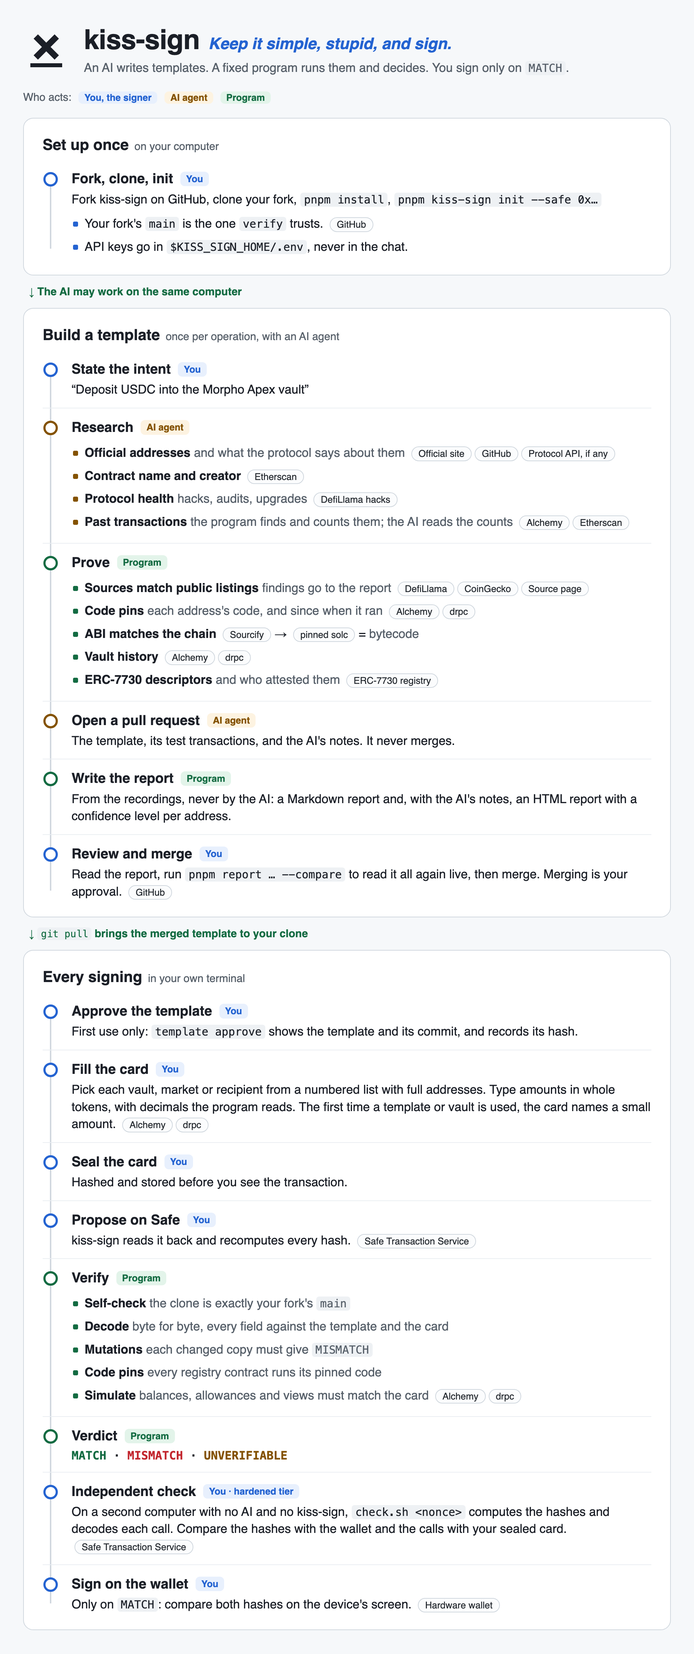
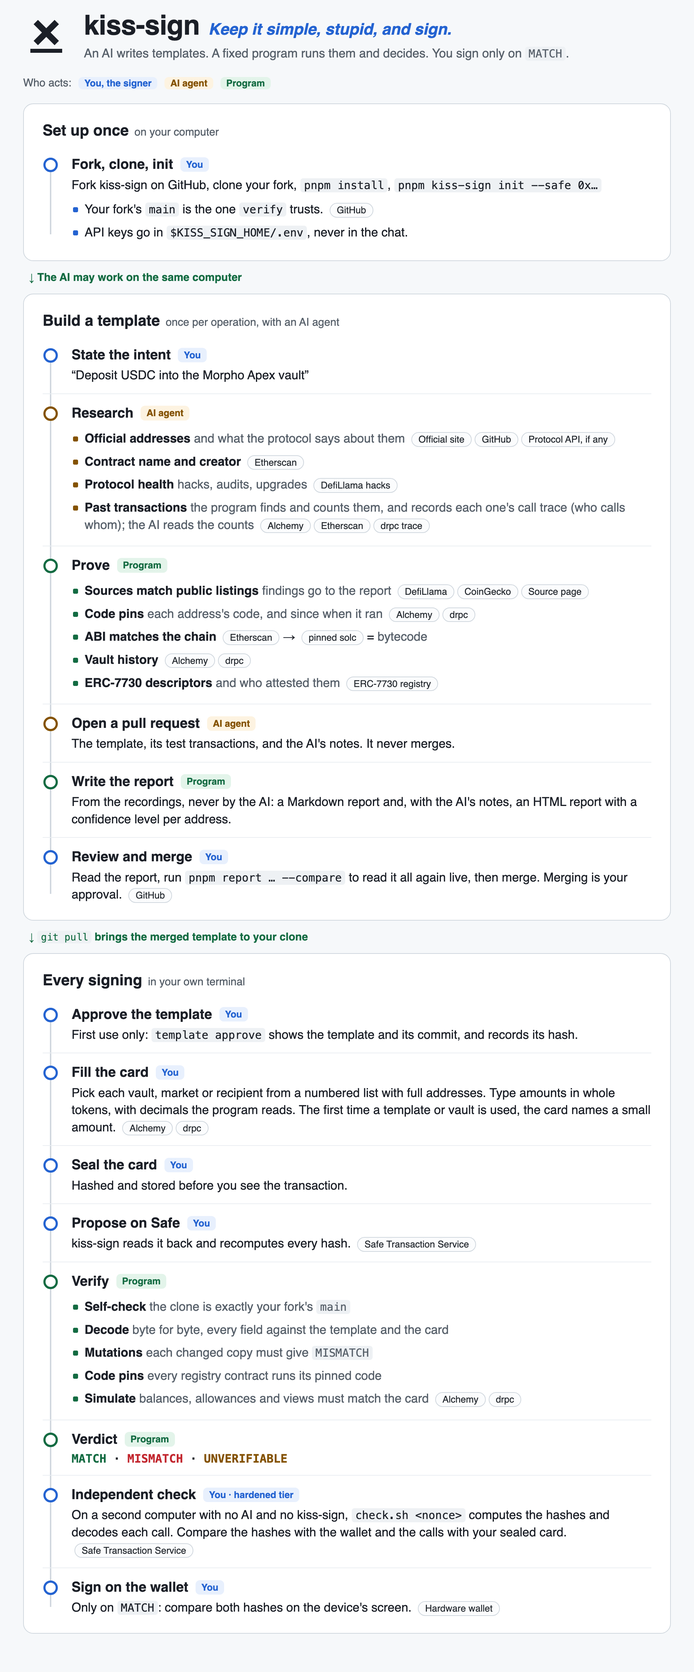
docs(design): check the AI's flow lines against past transactions' call traces
Past-txs records a trimmed callTracer trace from drpc for each transaction
exactly the template, cross-checked against the receipt both providers agree
on. The report compares each flow line with the traces both ways and draws a
seen line solid, labelled as confirmed by the program and by the AI's reading
of the source. The architecture diagrams name the trace and drpc.

Claude-Session: https://claude.ai/code/session_019EpkRikTD1KbjKp9L1wtSS

diff --git a/docs/diagrams/detail.html b/docs/diagrams/detail.html
@@ -108,10 +108,10 @@
       <h3><i>5</i>Gather evidence</h3>
       <ul>
         <li><code>instance-evidence</code>: factory admits the vault; monthly assets; holder count and top 10 share</li>
-        <li><code>past-txs</code>: finds past transactions and counts, per field, who held the rule; the AI reads the counts</li>
+        <li><code>past-txs</code>: finds past transactions and counts, per field, who held the rule; records each one's call trace (who calls whom) to test the AI's flow lines; the AI reads the counts</li>
         <li><code>erc7730</code>: descriptors from a pinned archive, ERC-8176 attestations, no descriptor text</li>
       </ul>
-      <div class="chips"><span class="chip">Alchemy Transfers</span><span class="chip">Multicall3</span><span class="chip">Etherscan</span><span class="chip">ERC-7730 registry</span><span class="chip">EAS</span></div></div>
+      <div class="chips"><span class="chip">Alchemy Transfers</span><span class="chip">Multicall3</span><span class="chip">Etherscan</span><span class="chip">drpc trace</span><span class="chip">ERC-7730 registry</span><span class="chip">EAS</span></div></div>
     <div class="arrow">→</div>
     <div class="box ai"><div class="head"><span>AI agent</span><span>steps 6, 7</span></div>
       <h3><i>6</i>Open a pull request</h3>
@@ -239,7 +239,7 @@
 </section>
 
 <div class="trust">
-  <div><b>Two providers</b>Every chain read goes to Alchemy and drpc. If they disagree, the verdict is <code>UNVERIFIABLE</code>.</div>
+  <div><b>Two providers</b>Every chain read goes to Alchemy and drpc. If they disagree, the verdict is <code>UNVERIFIABLE</code>. Only a past transaction's call trace, read in research, comes from drpc alone.</div>
   <div><b>Pinned downloads</b>solc, the Public Suffix List and the ERC-7730 archive load on first use, refused unless the sha256 is pinned. Signing reads none.</div>
   <div><b>Doubt fails closed</b>An AI fooled during signing can at worst cause <code>MISMATCH</code> or <code>UNVERIFIABLE</code>, while the program is your <code>main</code>. A program rewritten on your computer is the basic tier's limit.</div>
 </div>

diff --git a/docs/diagrams/overview.html b/docs/diagrams/overview.html
@@ -85,7 +85,7 @@
         <li><b>Official addresses</b> <span class="note">and what the protocol says about them</span> <span class="chip">Official site</span><span class="chip">GitHub</span><span class="chip">Protocol API, if any</span></li>
         <li><b>Contract name and creator</b> <span class="chip">Etherscan</span></li>
         <li><b>Protocol health</b> <span class="note">hacks, audits, upgrades</span> <span class="chip">DefiLlama hacks</span></li>
-        <li><b>Past transactions</b> <span class="note">the program finds and counts them; the AI reads the counts</span> <span class="chip">Alchemy</span><span class="chip">Etherscan</span></li>
+        <li><b>Past transactions</b> <span class="note">the program finds and counts them, and records each one's call trace (who calls whom); the AI reads the counts</span> <span class="chip">Alchemy</span><span class="chip">Etherscan</span><span class="chip">drpc trace</span></li>
       </ul></li>
     <li class="step program"><div class="title">Prove <span class="who">Program</span></div>
       <ul class="sub">

diff --git a/docs/design/flow.md b/docs/design/flow.md
@@ -273,6 +273,20 @@ Each picture is drawn from an HTML source in `docs/diagrams/`, and `sh docs/diag
      The report prints the same in its Past transactions section.
      The AI reads the spread to learn what values normal use sets, such as how far ahead real orders expire; it is evidence for a reason or a bound the AI proposes, never a rule by itself.
      A transaction whose `withinSeconds` field is more than its seconds after its block's time is a misfit, `<field>: more than <seconds> seconds after its block's time`, and one whose block time was not read is unreadable, so the counts show how many real transactions the bound would refuse.
+   - **Call traces:** for each transaction exactly the template, from a proven Safe or from an EOA making one of its calls, `--record` also keeps the path the transaction took inside its calls.
+     It asks drpc alone, `debug_traceTransaction` with `callTracer`, since Alchemy's free plan refuses it, one transaction at a time.
+     Every such transaction is traced, so a line is tested on every transaction the counts rest on; the study's limit of 240 transactions bounds them.
+     Of each call the trace keeps only what the comparison reads: its depth, its type (`CALL`, `STATICCALL`, `DELEGATECALL`, `CREATE` or `CREATE2`), `from`, `to`, its selector, a value that is not zero, whether it reverted, and for a `transfer`, `transferFrom` or `approve` its address arguments; never the rest of its input, its output or its gas.
+     Cut down so, a Morpho deposit through Bundler3 of 43 to 50 calls keeps 6.7 to 7.8 kB of the 27 to 34 kB drpc answers, and a Fluid deposit of 18 calls 2.8 kB of 13 kB, so 240 traced transactions add about 1.5 MB to a recording.
+     The recording keeps them under `traces`, each with the transaction's hash; the raw answer is never kept.
+     A trace counts only when its top call is the transaction as both providers give it: the same sender, target, selector and value.
+     The steps of a trace that move tokens are checked against the receipt both providers agree on, both ways: each `transfer`, `transferFrom` or `approve` that did not revert must have its `Transfer` or `Approval` log, by token, from and to, and each `Transfer` of a registry token between two addresses other than zero must have its call.
+     A transaction whose trace fails either check is UNVERIFIABLE for its trace, as any read the providers disagree on is, and is counted apart with why; it confirms no line and gives no finding.
+     A trace read with no answer stops `--record` as any read does; a recording made before traces holds none, and `--same-windows-as` searches its windows again to add them.
+     A call that reverted is left out with every call under it, since the chain undid it.
+     A call made inside a `DELEGATECALL` names, as `callTracer` gives it, the contract whose code delegated as its `from`, so a proxy's calls read as the proxy's and its call to its implementation is no step of the path.
+     A trace shows the path past transactions took; a contract may take another path on other state, so the effects check at signing, not a trace, is what protects the signer.
+     The report compares each AI `flow` line with these traces (see Flow lines against the traces under Report).
 5. **Check the protocol's health.**
    The AI looks for anything that makes the protocol unsafe to use right now: past hacks and incidents (for example DefiLlama's hack list and the protocol's own post-mortems), audits, recent upgrades, admin or timelock changes, paused or deprecated contracts.
    Every claim cites its source.
@@ -290,7 +304,7 @@ Each picture is drawn from an HTML source in `docs/diagrams/`, and `sh docs/diag
      A section with nothing to list says so in one line in place of an empty table, such as the registry entries of a template that calls only the Safe or a recipient, and no command is printed with an empty argument list.
    - **Finding grades:** every result of the ledger has one weight, from one table, `WEIGHT_OF` in `src/research/grades.ts`, by its finding kind, never by a condition elsewhere: pass, key, reference or neutral.
      A grade changes only how a result is shown and in what order; which results go to 待確認, which need a review in `notes.json`, a result's colour, an address's confidence, `card seal` and `verify` do not read it.
-     **Key** is a finding that bears on whether an address or its code is the protocol's real one and does what the template assumes, and every result the HTML page colours red or amber is key unless named below: an address confirmed in fewer than two places, a site, coin, API answer, newest version or SDK package that differs, a pinned page or SDK file whose label binds only other addresses (the report prints each in full, checksummed, as for a newest version), a site that cannot be compared or has no second source, a GitHub commit not confirmed, a factory or a check it declares that says no or was not read, an ABI proof refused, missing, or of code other than the pin, a compiler not pinned, a function the template uses missing from the ABI, a code pin missing, not run on chain, recorded before spans or with no chain result, a documentation page not read or not naming the function, a recorded test transaction judged otherwise, and a read with no answer (`UNVERIFIABLE`).
+     **Key** is a finding that bears on whether an address or its code is the protocol's real one and does what the template assumes, and every result the HTML page colours red or amber is key unless named below: an address confirmed in fewer than two places, a site, coin, API answer, newest version or SDK package that differs, a pinned page or SDK file whose label binds only other addresses (the report prints each in full, checksummed, as for a newest version), a site that cannot be compared or has no second source, a GitHub commit not confirmed, a factory or a check it declares that says no or was not read, an ABI proof refused, missing, or of code other than the pin, a compiler not pinned, a function the template uses missing from the ABI, a code pin missing, not run on chain, recorded before spans or with no chain result, a documentation page not read or not naming the function, a recorded test transaction judged otherwise, a `flow` line the traces did not see in every transaction, a money call in a trace no line covers, and a read with no answer (`UNVERIFIABLE`).
      When unsure, a kind is key.
      **Reference** is context the signer may weigh that undermines neither: a coin CoinGecko lists at an address whose entry names no `coingecko` id (it confirms nothing, and the address's own result says how many places did); a masked metadata hash (see [Known limits](known-limits.md#known-limits): every byte but the hash is proven, and nothing the signer could check changes it); no CoinGecko coin at the address, an SDK publisher with no build provenance, a deployer not proven, a source that got no answer, a page or SDK file on which the address was not read and its label binds no other address (an SDK file that holds it, but not next to its label or only in a letter case that is neither lowercase nor its checksum, included), a page whose URL holds the address, an Immunefi program the entry names that nothing ties to the protocol because its sites are not known, and an Immunefi program the entry names that Immunefi does not list, each a place that did not confirm the address, which the entry's `<name>/address` result, key, already counts.
      **Neutral** is no finding, a place with nothing to compare: one that does not list the address (NOT LISTED: a bounty program tied to the protocol whose scope does not hold it, an SDK file that does not hold it and binds its label to no other address, a newest version that binds its label to no address), a site no listing names that another result vouches for, a deployer no confirmed entry shares, and an entry whose ABI the program does not use or that has `routes` (not proved, not provable); the generated report prints these as NOT LISTED or n/a with the reason, never as FINDING, as the HTML page shows them grey.
@@ -336,6 +350,18 @@ Each picture is drawn from an HTML source in `docs/diagrams/`, and `sh docs/diag
      When the recording keeps its head, the command it prints searches the same windows again with `--same-windows-as` naming that recording.
      A search that left transactions out is not caught.
      The section shows each measured effect's distribution of differences beside its declared tolerance, with each `FINDING`, as `pnpm past-txs` prints them (see Amounts against balances above).
+     It also prints, per recording, how many transactions were traced and how many were UNVERIFIABLE for their trace, with why.
+   - **Flow lines against the traces:** the program compares the AI's `flow` lines (see Written by the AI, as data) with the traces of the recordings the report studies, both ways, over the transactions whose trace counts.
+     It finds the template's calls in each trace in order: for a Safe, the calls the Safe makes with each template call's selector, or with no data for a call that has none; for an EOA, its transaction's own call.
+     A line is seen in a transaction when, under the call its `after` names, a call goes from its `from` to its `to` with the selector of its `function`.
+     A line is tested only in the transactions that make its call, so an EOA's transaction tests only the lines after its own call, and the report shows each line as seen in N of M transactions.
+     A money call is a `transfer`, `transferFrom` or `approve` to any contract, or a call that sends ETH, under one of the template's calls.
+     It is covered when it is a call the template binds, a top-level call or a nested call such as a Bundler3 bundle item, or a call a seen line names, or is made directly by one of those; a `DELEGATECALL` between them is no step.
+     A line seen in fewer than all its M transactions is a result for the signer, `flow.<n>` by its place in the merged `flow` list from 1, and so is each money call no line covers, grouped by the call it is under, its `from`, its `to` and its kind, `trace.<call>.<from>.<to>.<kind>`, where `from` and `to` are a registry name, `safe` for the sender, or `other` for an address outside the registry, and the kind is `transfer`, `transferFrom`, `approve` or `eth`; the AI reviews each in `notes.json` as any other.
+     A line seen in none of its transactions is red, and the rest amber.
+     With no trace that counts, as for a template no recording has traced yet, no line is compared and none gives a result: every line stays the AI's.
+     None of this runs at signing: `verify`, `card new`, `card seal` and `replay` read no trace.
+     `--compare` traces each recorded transaction again through drpc and requires the same calls, and checks them against the receipt read again through both providers.
    - **Live check:** the recordings are made on the AI's computer, so the program can show only that it computed the report from them, not that they are true.
      Before merging, the signer runs `--compare` with main's code on the pull request's files, so a pull request that also weakens `--compare` cannot pass its own check: in a clone on `main`, `git pull` and `git fetch origin <branch>`, then `pnpm report <protocol>/<operation> --compare --data origin/<branch>`, with `--instance-of <instance>` for each per-instance report the branch changes.
      `--data` unpacks `templates/`, `registry/` and `testdata/` from that ref into a temporary directory and runs the code checked out.
@@ -386,12 +412,15 @@ Each picture is drawn from an HTML source in `docs/diagrams/`, and `sh docs/diag
      Top to bottom: **Header.**
      The AI's `title`, the operation id, and the AI's `summary`.
      Under it the check strip: one short named result per line of evidence, each with its icon and count, and its explanation behind an info icon that shows on hover or keyboard focus.
-     The strip holds 地址來源 (each address's confirmations, the source pages' sites and commits, and the documentation pages, which 流程 also shows under each call; it fails on any real disagreement and needs a look when an address is confirmed in fewer than two places), 原始碼驗證 (the ABI proofs; an entry whose ABI the program does not use and one with `routes` have none, their result grey, and the line's explanation names each and points to 合約沒被換掉), 合約沒被換掉 (the code pin spans, and the code at the report's latest block of each entry no ABI proof covers; its explanation names those entries, and each entry with `routes`, whose implementations its seeds reach and their selector lists are checked too, while an implementation no seed reaches is not), 參數保護 (the mutation check and the `testdata/perturb/` recordings) and 雙節點比對 (the rule that every chain read goes through two providers).
+     The strip holds 地址來源 (each address's confirmations, the source pages' sites and commits, and the documentation pages, which 流程 also shows under each call; it fails on any real disagreement and needs a look when an address is confirmed in fewer than two places), 原始碼驗證 (the ABI proofs; an entry whose ABI the program does not use and one with `routes` have none, their result grey, and the line's explanation names each and points to 合約沒被換掉), 合約沒被換掉 (the code pin spans, and the code at the report's latest block of each entry no ABI proof covers; its explanation names those entries, and each entry with `routes`, whose implementations its seeds reach and their selector lists are checked too, while an implementation no seed reaches is not), 參數保護 (the mutation check and the `testdata/perturb/` recordings), 呼叫追蹤 (the `flow` lines and money calls against the past transactions' call traces; the line is left out when no trace counts) and 雙節點比對 (the rule that every chain read goes through two providers, which the call traces keep for the tokens they move: see [Chain access](engine-and-chain.md#chain-access)).
      A line with no result at all, such as 地址來源 for a template that touches no registry entry, is left out; 參數保護 with no recorded test transaction shows 沒有測試 in place of a count, in grey, and says why from the template: with no free field there is nothing to perturb, and `verify` still changes each bound field at every signing.
      Under the strip the AI's `verdict` as one line marked 建議.
      The contents rail links each section and shows the count of calls, of addresses, and for 待確認 three counts: the program's key results for the signer (重要) and its reference results (參考), each with its worst state's icon, and the AI's judgments with the dashed-ring icon, each left out when zero and a passed 0 when all are; the 待確認 heading shows the same three.
      **流程.**
-     A sequence diagram the program draws as inline SVG: a lifeline for the Safe, for each contract the calls or the effects' views target, and for each contract an AI `flow` line names that has none yet, such as an adapter a nested call targets, a solid numbered arrow for each call with its function name (a call with no data is labelled by its value: 轉 ETH when the value can be nonzero, 0 ETH、沒有資料 otherwise, and a call to the Safe itself loops back to its own lifeline, while a card recipient's lifeline is named by its field, such as 收款人), a dashed arrow for each AI `flow` line between the two contracts it names, and a green arrow back to the Safe for what the effects say the Safe gets, such as a token or a view that increases.
+     A sequence diagram the program draws as inline SVG: a lifeline for the Safe, for each contract the calls or the effects' views target, and for each contract a nested call or an AI `flow` line names that has none yet, such as an adapter a nested call targets, a solid numbered arrow for each call with its function name (a call with no data is labelled by its value: 轉 ETH when the value can be nonzero, 0 ETH、沒有資料 otherwise, and a call to the Safe itself loops back to its own lifeline, while a card recipient's lifeline is named by its field, such as 收款人), a solid arrow for each call the template binds inside a call, such as each Bundler3 bundle item, from the call's target to the nested call's, labelled with its function, an arrow for each AI `flow` line between the two contracts it names, and a green arrow back to the Safe for what the effects say the Safe gets, such as a token or a view that increases.
+     A `flow` line the traces saw is solid and labelled as confirmed two ways: by the program, in the call traces of N of M past transactions, and by the AI, reading the contract's source, with its sources linked; its text keeps its AI tag.
+     A line not compared, or seen in none of its transactions, stays dashed, with its AI tag; a line seen in some is solid with its count, and its result goes to 待確認.
+     When any line is solid, one sentence under the diagram says that a trace shows the path past transactions took, that a contract may take another path on other state, and that the effects check at signing is what protects the signer.
      Under the diagram, one line names who decides each argument, listing only the words some argument uses, and a free argument once per claim the template makes for it (換成別的值，結果一樣或交易失敗 for a scalar, 換成別的值，交易就失敗 for a proof, 合約不讀它 for an unread field), and the line on `cast decode-calldata` shows only when a call has data; then per call its function and selector, its documentation page, and one row per argument.
      The documentation page is one line under the call's heading, 文件：, naming the page `docs.json` gives the function, linked: a standard's page as `<standard> 標準頁`, followed by 標準定義這個函式，不代表合約照標準做, any other page by its host and leading path as 地址 names pages, with its file name added when two pages of the report would share that name.
      Its result is the worst of that page's results (the function on the page, its site, and a GitHub page's commit), shown as an address row's source line shows one: a pass by its icon alone, anything else by its icon and phrase (讀不到, 頁上沒有這個函式 for a page read that does not name the function, 是另一個網站, 沒資料可比).
@@ -490,11 +519,11 @@ Each picture is drawn from an HTML source in `docs/diagrams/`, and `sh docs/diag
      A page in one language says, in that language, that the report exists only in it; a signer who reads the other language is pointed to it, and nothing refuses a report for being in the other language, since an instance's report is found by its `report.generated.md`.
      A per-instance report reads two: the template's, with the text every instance's report shares, which includes the role, sources and reviews of an entry every instance with a report of the template names in `dependsOn` or as an attribute, such as Fluid's Liquidity and LendingFactory behind both fTokens, written there once (a name some report does not cover is refused there as one the report does not cover), and the instance's own in its folder, which may hold only `verdict`, `flow`, `judgments`, `reviews`, `entries` and `pastTxsConclusion`, each about that instance, `flow` since a line names the instance or its asset, and the template's `flow` may name neither; its `reviews` and `entries` may name only the instance, the registry entries its attributes name, such as its asset and its factory, and those it depends on, and the program refuses any other name, a test transaction's review included, since a shared contract's text belongs in the template's file.
      The program merges them before it parses them as one, and refuses a key both define: `verdict`, or one entry or one review by its name; the `flow` lines and the judgments of both join, and count toward their limit of four.
-     The keys: `title`, `summary`, `verdict` (`{ "status": "safe" | "caution", "text" }`, the AI's overall view of the operation's risk in one line; it never changes a program result or a confidence level), `flow` (at most four things that happen inside a call, which the program cannot see, each `{ "after": <call number>, "from": <registry name>, "to": <registry name>, "text" }`, drawn as a dashed arrow between the two contracts; `from` and `to` name a contract the calls or the effects' views target, an entry one of those names in `dependsOn`, such as the Liquidity an fToken keeps its deposits in, or a token the effects move), `protocols` (by DefiLlama slug, for each protocol the protocol facts cover: `intro`, one line on what the protocol is; `audits`, a note with the audit reports as sources; `incidents`, one note per DefiLlama hack in date order, its cause with the post-mortem as a source), `judgments` (at most four things the AI asks the signer to judge, each with a `recommendation`), `reviews` (by result id, `<registry name>/<check key>` or `fixture.<name>`, where a documentation page's key names its function by selector, such as `doc.0x095ea7b3.page`: `{ "status": "confirmed" | "concern", "text", "recommendation" }`, the AI's own check of a result the signer must look at, shown under the program's line; `confirmed` only when the AI checked the exact thing the result names and it agrees, such as the address on that very page, and `concern` for evidence about anything else, however strong), `entries` (by registry name: `role`, and `sources`, each source the AI checked by hand as `{ "text", "url", "result": "pass" | "attention" | "fail" }`, such as the Etherscan creator or a page opened in a browser; an entry with `routes` must have one, with a `role` and at least one source, see Pin the routes) and `pastTxsConclusion` (optional, one line on what the past transactions with other shapes teach, read from the 過去交易 blocks, never repeating the count of those with exactly the template's shape, which the program prints; in a per-instance report the instance's) and `fields` (by the HTML report's field key, such as `1.approve.spender` or `2.blueBundlesV1Supply.marketParams.oracle`, what the argument does, from the contract's source and documentation; every argument and every tuple part needs one).
+     The keys: `title`, `summary`, `verdict` (`{ "status": "safe" | "caution", "text" }`, the AI's overall view of the operation's risk in one line; it never changes a program result or a confidence level), `flow` (at most four things that happen inside a call, each `{ "after": <call number>, "from": <registry name>, "to": <registry name>, "function": <canonical signature>, "text", "sources" }`, drawn as an arrow between the two contracts and compared with the call traces (see Flow lines against the traces); `function` is the function `from` calls on `to`, such as `supply((address,address,address,address,uint256),uint256,uint256,address,bytes)`, and `sources` are https URLs, the contract source the AI read and a past transaction whose internal calls it checked by hand, such as its Etherscan page; `from` and `to` name a contract the calls or the effects' views target, an entry one of those names in `dependsOn`, such as the Liquidity an fToken keeps its deposits in, or a token the effects move), `protocols` (by DefiLlama slug, for each protocol the protocol facts cover: `intro`, one line on what the protocol is; `audits`, a note with the audit reports as sources; `incidents`, one note per DefiLlama hack in date order, its cause with the post-mortem as a source), `judgments` (at most four things the AI asks the signer to judge, each with a `recommendation`), `reviews` (by result id, `<registry name>/<check key>` or `fixture.<name>`, where a documentation page's key names its function by selector, such as `doc.0x095ea7b3.page`: `{ "status": "confirmed" | "concern", "text", "recommendation" }`, the AI's own check of a result the signer must look at, shown under the program's line; `confirmed` only when the AI checked the exact thing the result names and it agrees, such as the address on that very page, and `concern` for evidence about anything else, however strong), `entries` (by registry name: `role`, and `sources`, each source the AI checked by hand as `{ "text", "url", "result": "pass" | "attention" | "fail" }`, such as the Etherscan creator or a page opened in a browser; an entry with `routes` must have one, with a `role` and at least one source, see Pin the routes) and `pastTxsConclusion` (optional, one line on what the past transactions with other shapes teach, read from the 過去交易 blocks, never repeating the count of those with exactly the template's shape, which the program prints; in a per-instance report the instance's) and `fields` (by the HTML report's field key, such as `1.approve.spender` or `2.blueBundlesV1Supply.marketParams.oracle`, what the argument does, from the contract's source and documentation; every argument and every tuple part needs one).
      A note is `{ "text", "sources"? }`, with `sources` https URLs.
      A review or an AI source explains a program result and cannot move or hide it.
      Every result the signer must look at needs a review, and a review of any other result is refused.
-     The program refuses an unknown key, an entry or protocol the report does not cover, an entry with `routes` that `entries` does not describe with a `role` and a source, an incident list whose length differs from the hacks DefiLlama lists, a `flow` line whose `after` is not one of the template's calls or whose `from` or `to` is not a contract the calls or the effects' views target, an entry one of those names in `dependsOn`, or a token the effects move, such as the asset a withdrawal pays out, a field key the template lacks, a control or bidirectional character, a backtick that does not open or close a code span around one identifier (`erc4626Deposit` or `erc4626Deposit()`), text over 2,000 characters, a judgment, role, recommendation, intro, `pastTxsConclusion` or AI source over 200, a review over 300, and the report's `title`, a `flow` line or a verdict over 100; a length does not count the backticks.
+     The program refuses an unknown key, an entry or protocol the report does not cover, an entry with `routes` that `entries` does not describe with a `role` and a source, an incident list whose length differs from the hacks DefiLlama lists, a `flow` line whose `after` is not one of the template's calls, whose `from` or `to` is not a contract the calls or the effects' views target, an entry one of those names in `dependsOn`, or a token the effects move, such as the asset a withdrawal pays out, whose `function` is not a canonical signature, whose `sources` are empty, or that names a call the template binds itself, a field key the template lacks, a control or bidirectional character, a backtick that does not open or close a code span around one identifier (`erc4626Deposit` or `erc4626Deposit()`), text over 2,000 characters, a judgment, role, recommendation, intro, `pastTxsConclusion` or AI source over 200, a review over 300, and the report's `title`, a `flow` line or a verdict over 100; a length does not count the backticks.
      AI text may name a function or an argument as a code span, such as "依序呼叫 `erc20TransferFrom` 和 `erc4626Deposit`"; the HTML report prints it in monospace, as `<code>` in prose and as a boxed monospace span in the flow diagram, escaped like all AI text.
      It covers what the program cannot: where each address was found and the protocol API's query and answer, each contract's Etherscan name and creator, its reading of each instance's evidence, what each field means, the past-transaction counts by sender type with every misfit and what it taught, where the generated ERC-7730 section's field formats, visibility, and parameters left out differ from the AI's meanings, the protocol's health from step 5, and, only when `pnpm simulate` marks a call of a test transaction as moving no asset of the Safe (see [Engine checks](engine-and-chain.md#engine-checks-that-every-template-gets)), what that call changes, from the protocol's official documentation with a link to the page; with no call marked, the notes say nothing about the mark.
      A count such as "42 past deposits from 31 proven Safes, 60 from 52 EOAs; `receiver` (who gets the vault shares) was the depositing Safe in all 42" is the evidence behind the rule "`receiver` equals the Safe".

diff --git a/docs/design/engine-and-chain.md b/docs/design/engine-and-chain.md
@@ -124,6 +124,7 @@ These are protocol-free and change rarely.
 Every on-chain read uses two providers from different companies.
 Both must agree, or the result is `UNVERIFIABLE`.
 This covers state reads, code, simulation, receipts, and the search for past transactions.
+The one exception is a past transaction's call trace during research, which only drpc serves free: its token transfers and approvals are checked against the receipt both providers agree on, and it never reaches a verdict.
 
 | Role | Providers |
 |---|---|
@@ -133,6 +134,7 @@ This covers state reads, code, simulation, receipts, and the search for past tra
 | Simulation, latest and past blocks | Alchemy and drpc, `eth_simulateV1` |
 | A signed message a template reads by its digest, during `verify` | The template's `lookup`, such as CoW's order API; one source is enough, since the program hashes the answer and requires the digest the transaction holds |
 | Finding past transactions | Alchemy Transfers API and a second source (Etherscan with a free key) |
+| A past transaction's call trace, during research | drpc alone (`debug_traceTransaction` with `callTracer`), its token calls checked against the receipt Alchemy and drpc agree on |
 
 When the system resolver fails, kiss-sign resolves provider hosts over DNS over HTTPS.
 TLS certificate checks stay on, so a wrong address can only fail the connection.
@@ -177,4 +179,5 @@ None of them is read at signing.
 | EAS contract on mainnet, through Alchemy and drpc | Each attestation's signer, by the `ecrecover` precompile, and whether the signer revoked it (step 2) | Program, `pnpm erc7730` |
 | Etherscan API (`getsourcecode`) and a pinned `solc` | The verified source compiles to the code on chain, and its ABI holds every function the template uses (step 3) | Program, `pnpm prove-abi` |
 | Alchemy Transfers API and Etherscan API | Past transactions of the operation (step 4) | Program, `pnpm past-txs`; the AI reads the counts |
+| drpc `debug_traceTransaction`, and receipts through Alchemy and drpc | The calls inside each past transaction exactly the template, against the AI's `flow` lines (steps 4 and 6) | Program, `pnpm past-txs` and `pnpm report`; the AI reviews each finding |
 | DefiLlama hacks list and post-mortems | Past hacks and incidents (step 5) | AI |

diff --git a/docs/design/known-limits.md b/docs/design/known-limits.md
@@ -2,6 +2,10 @@ Part of [the kiss-sign design](../design.md).
 
 ## Known limits
 
+- A past transaction's call trace comes from drpc alone, since Alchemy's free plan does not serve one.
+  Its token transfers and approvals are checked against the receipt both providers agree on, but a call that moves no token, and ETH sent inside a call, which logs nothing, rest on drpc's answer.
+  A trace only confirms a `flow` line in the report or asks the AI for a review; it never changes a verdict.
+  A trace also shows one path: a contract may branch on state, so a line seen in every past transaction may not hold for the transaction to sign, and the effects check at signing is what protects the signer.
 - Etherscan name tags (labels such as "Morpho: Bundler3") are not used.
   Etherscan offers no free API for them.
   The verified contract name and the creator, read from the contract's Etherscan page, are used instead.
